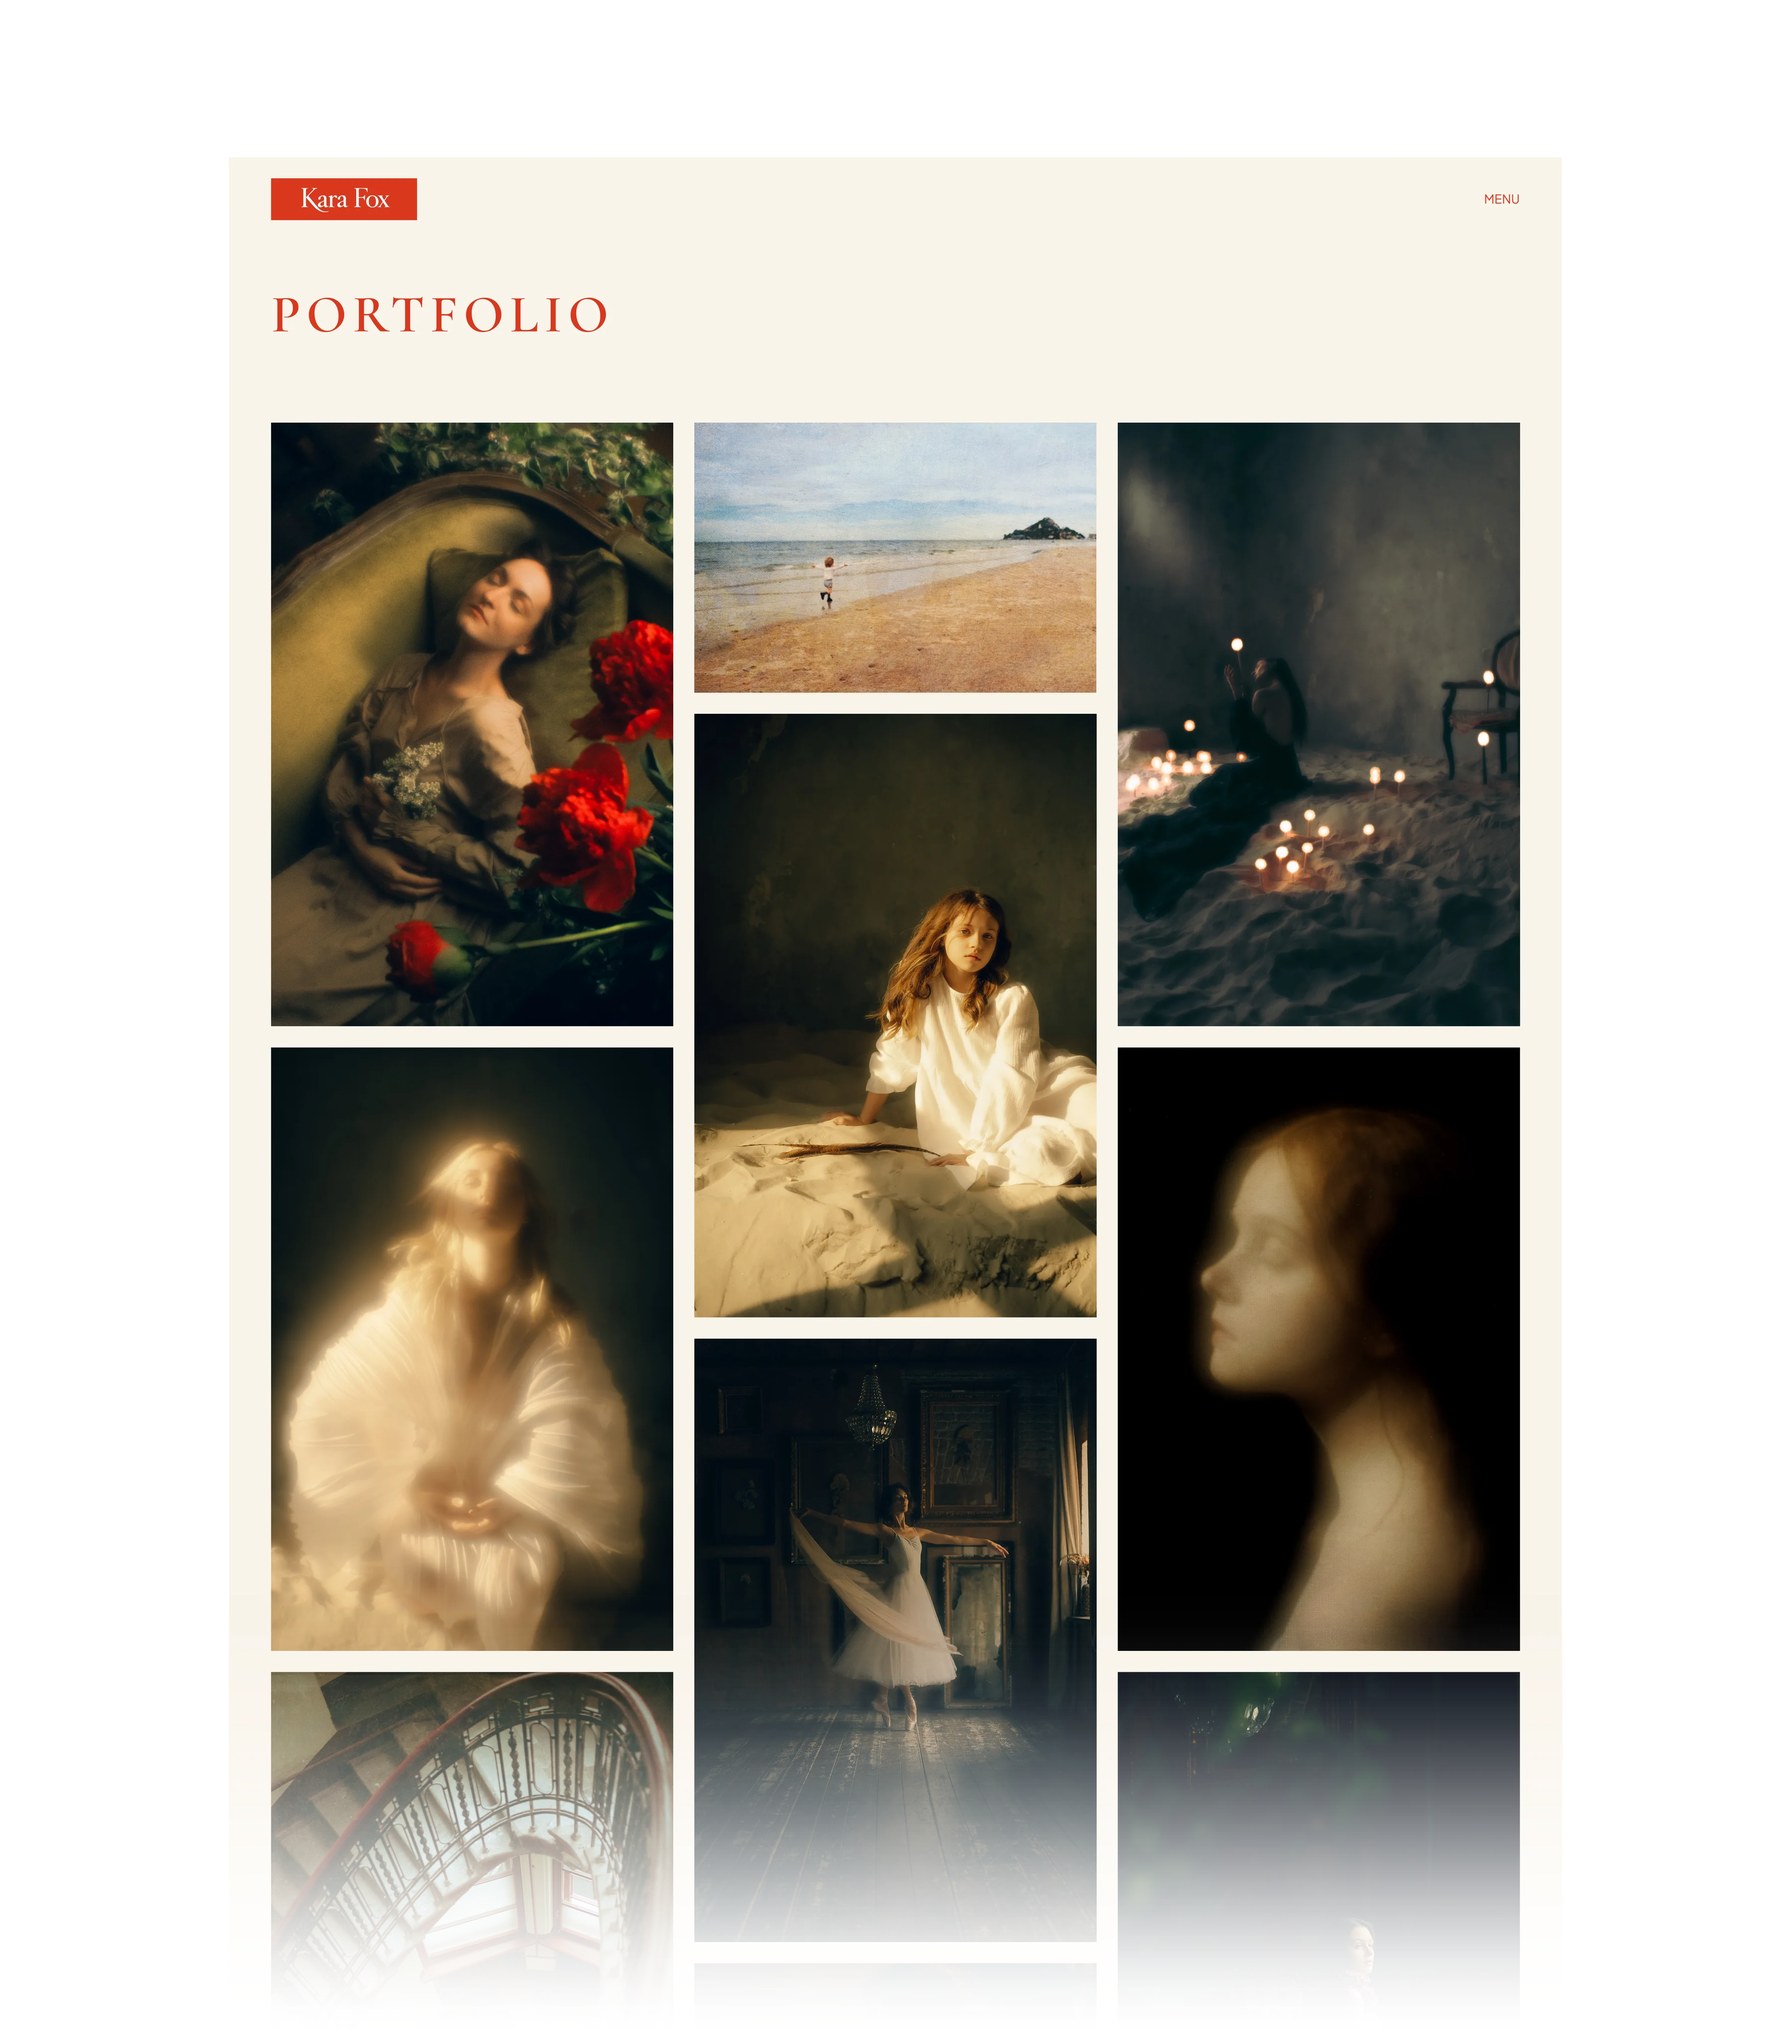
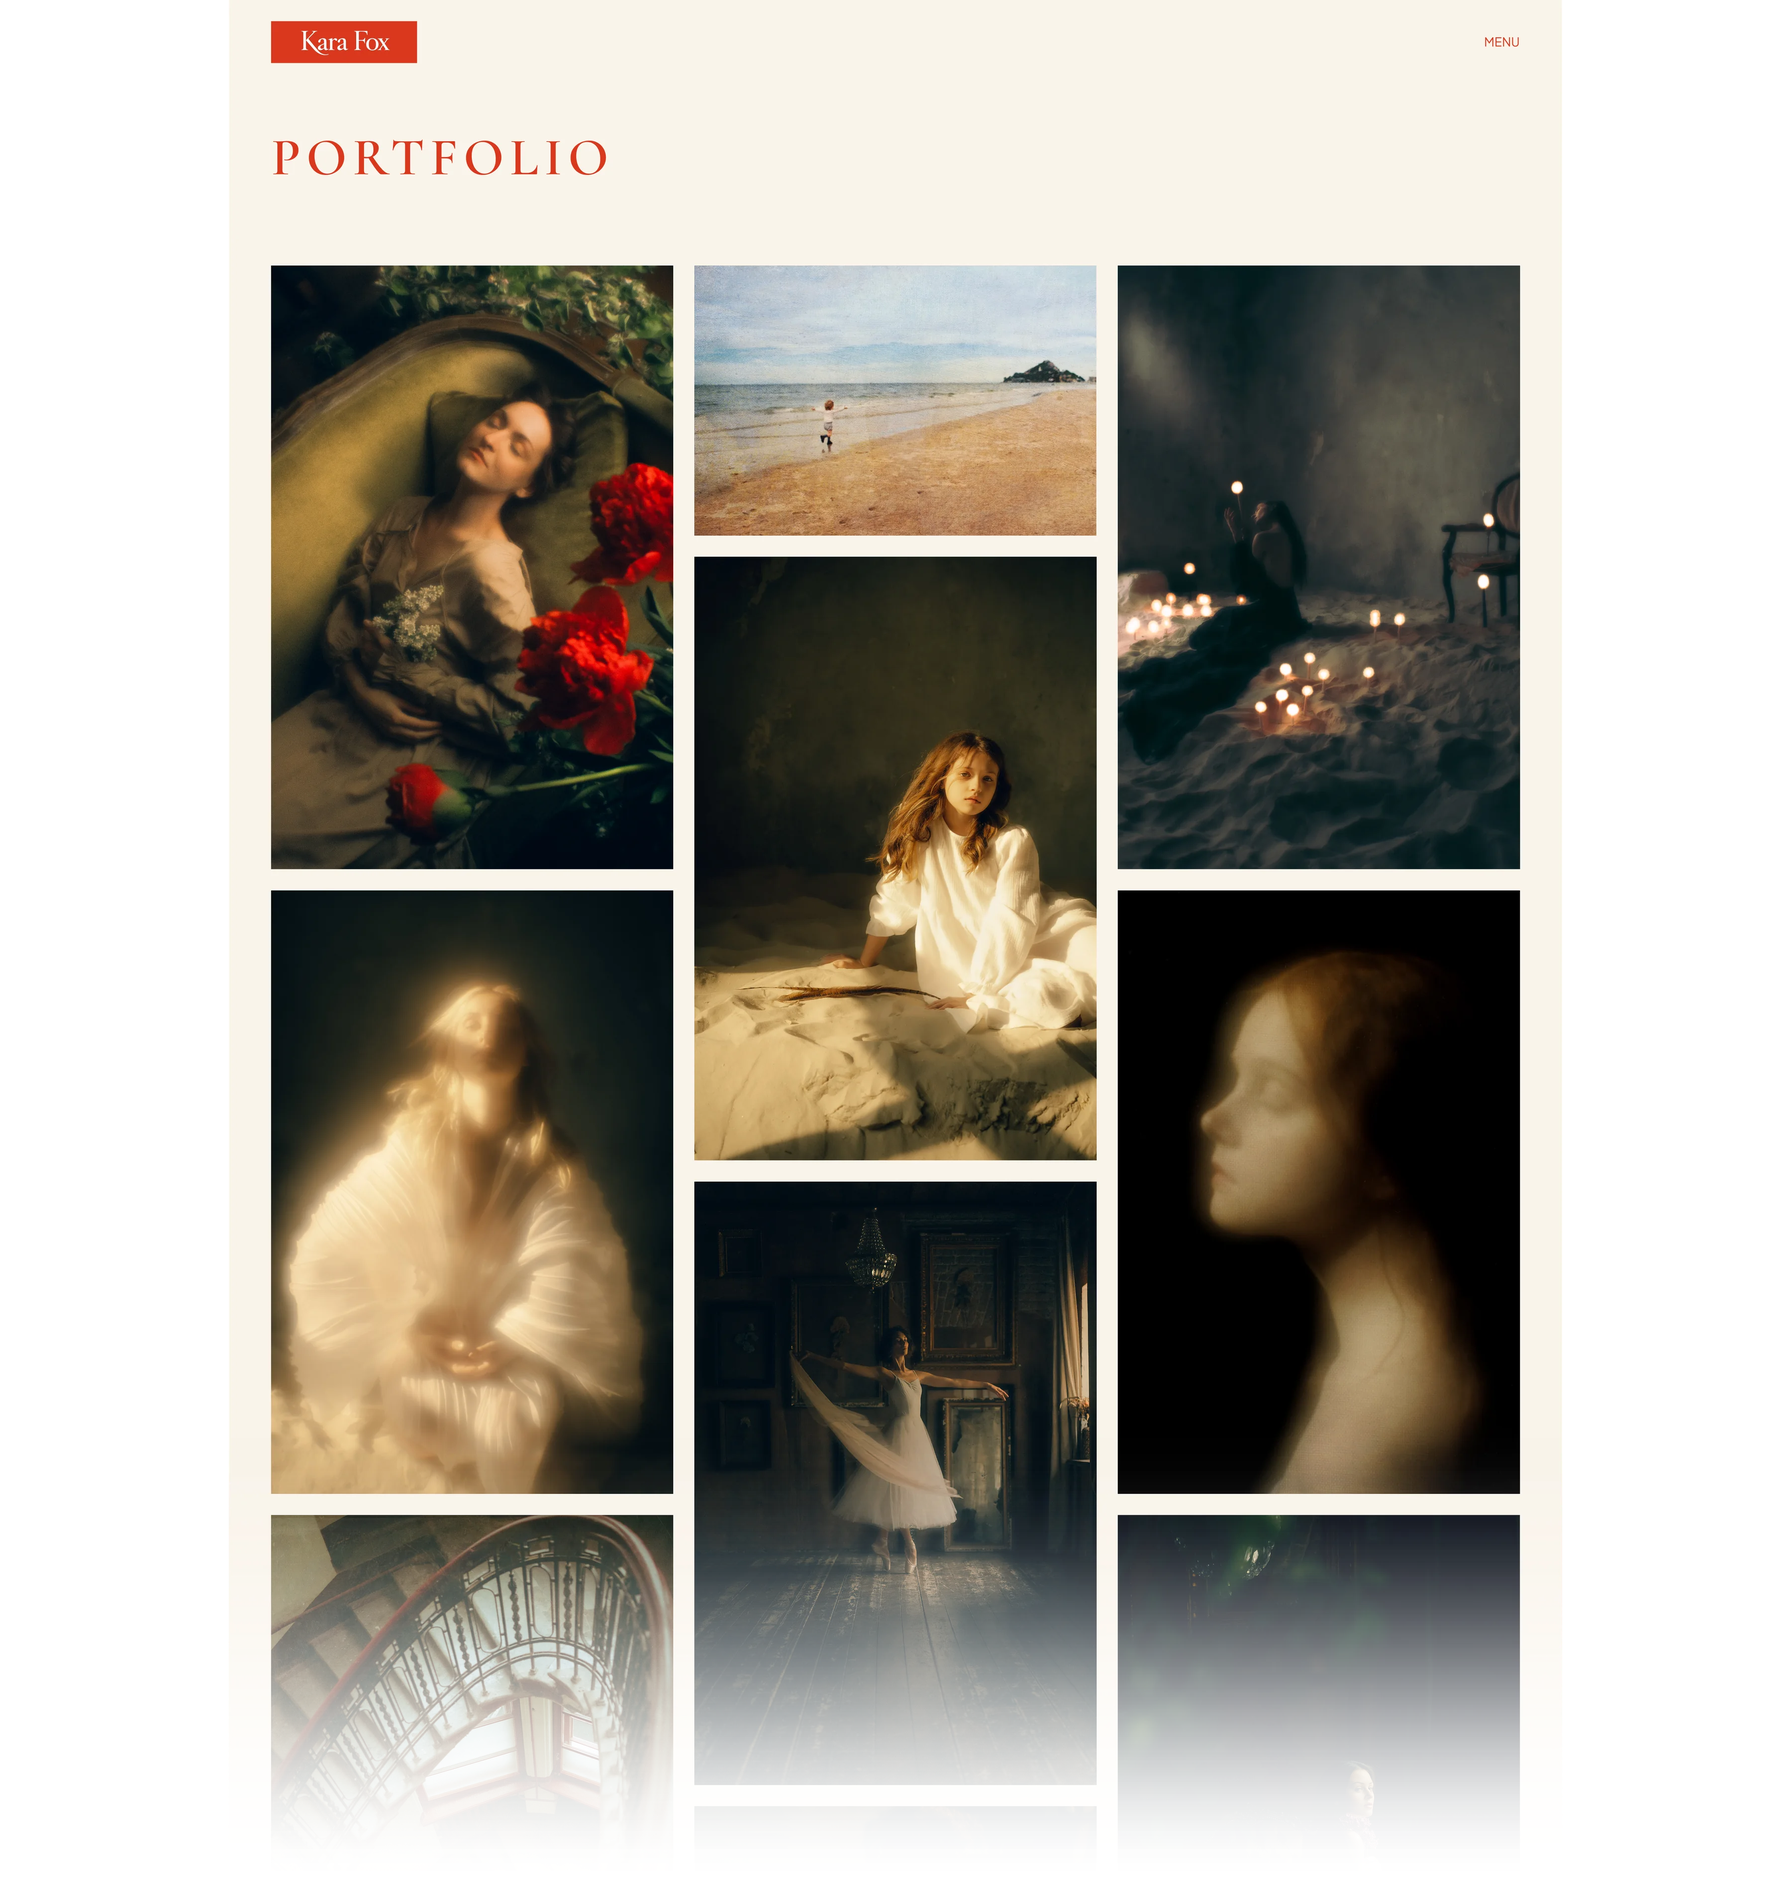
Кейсы: отступы 180/60 по дизайн-системе; Kara Fox — без обводки и пустых полей у картинок
Claude-Session: https://claude.ai/code/session_01E1toF4c21jnDN6opnPe2WP

Changed region(s): [[0.1244, 0.0623, 0.8711, 0.9338], [0.4044, 0.9338, 0.5911, 0.9649], [0.1244, 0.0, 0.2489, 0.0311]]

diff --git a/site/styles/project-static.css b/site/styles/project-static.css
@@ -68,8 +68,8 @@ html.light-theme .uma-project__count { font-weight: var(--w-head); }
   .uma-project {
     --up-pad: var(--pad-x);
     --up-gap: calc(10 * var(--u));     /* 16 */
-    --up-sec: calc(100 * var(--u));    /* 160 между разделами */
-    --up-inner: calc(50 * var(--u));   /* 80 от текста до картинки */
+    --up-sec: var(--block-gap, calc(180 * var(--u)));      /* между разделами — как между блоками главной (180) */
+    --up-inner: calc(60 * var(--u));   /* заголовок/текст → содержимое — 60, как на главной */
     --up-lines: var(--grid-12);
     --up-col-gap: var(--gap-12);
     padding-top: calc(48 * var(--u) + 37 * var(--u));            /* 123 от верха страницы */

diff --git a/DESIGN-SYSTEM.md b/DESIGN-SYSTEM.md
@@ -30,3 +30,9 @@
 
 Жирность — `--w-text` / `--w-head` (400 в тёмной, 470 в светлой); 500 — только кнопки.
 Декоративные элементы (знак на «Скоро здесь», образцы шрифтов и «Aa» в палитрах кейсов) — вне шкалы.
+
+## Отступы по вертикали (десктоп, px макета 1200 × `--u`)
+- Между блоками / разделами — 180 (`--block-gap`), на главной и в кейсах одинаково.
+- Заголовок или текст раздела → содержимое (картинка, палитра, шрифты) — 60.
+- Мелкие шаги внутри блока — 32, 24, 16.
+- Картинки на прозрачном фоне обрезаются по содержимому сверху и снизу, чтобы пустые поля не добавлялись к отступам.
